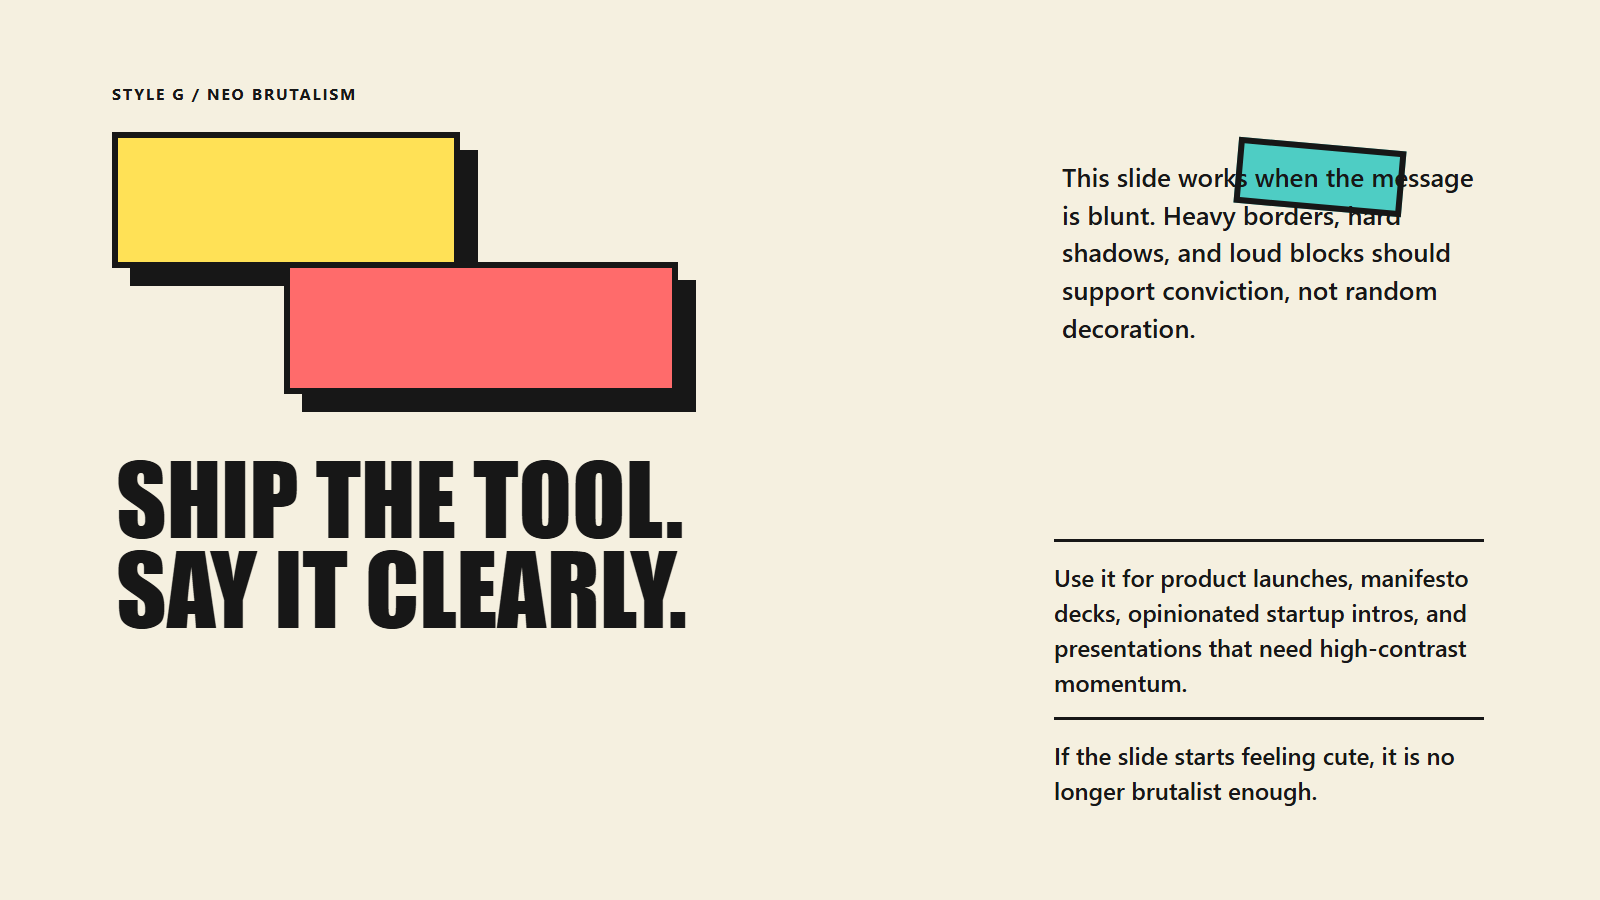
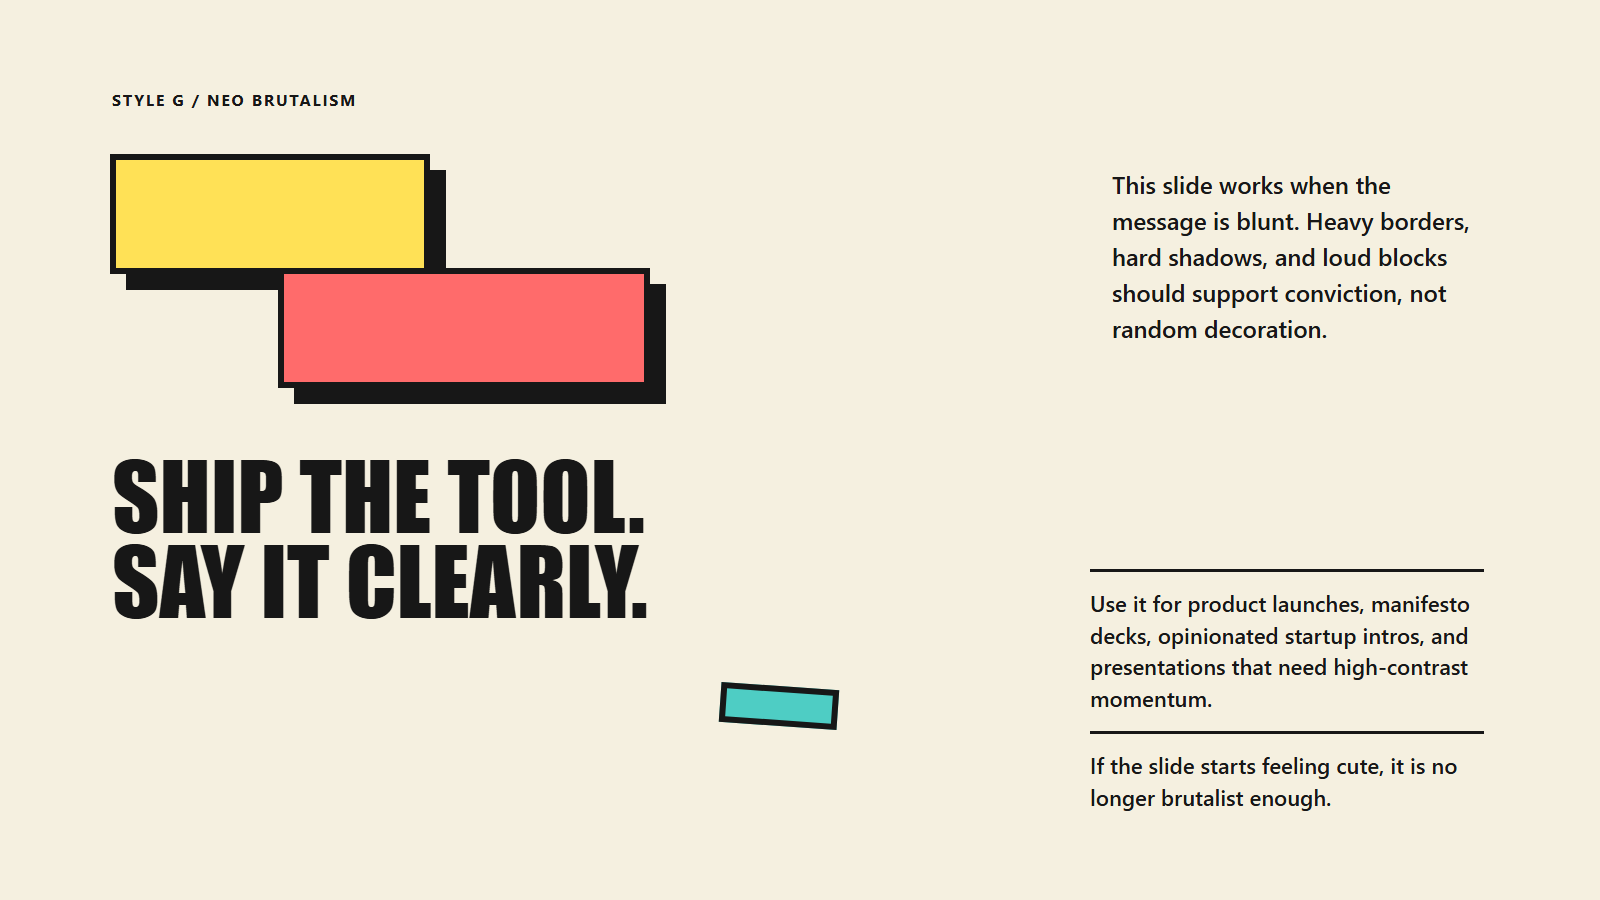
Polish README previews and presentation standards

diff --git a/README.zh.md b/README.zh.md
@@ -69,15 +69,17 @@ npx skills add https://github.com/Phlegonlabs/Powerpoint-fancy-design --skill pp
 - 渲染与 PPT 导出脚本
 - 可直接套用的 Markdown deck 模板
 
-## GitHub About 文案
+## 演示设计标准
 
-Description：
+这个 skill 对外呈现出来的状态，应该像一套专业的 PowerPoint 设计系统，而不是一组松散的素材。
 
-`A Codex skill for turning page-by-page Markdown into styled 1600x900 HTML slides, PNG previews, and exportable PPTX decks.`
+这意味着：
 
-建议 topics：
-
-`codex-skill`, `ppt`, `powerpoint`, `presentation-design`, `markdown-to-slides`, `html-slides`, `pptx`, `slide-generator`
+- 字体和图形不能抢同一个阅读焦点
+- 深色块和高饱和图形不能直接撞进正文阅读区，除非留白和对比是经过控制的
+- 装饰元素必须服务层级，而不是破坏层级
+- 每一张 preview 和每一页 slide 都应该像真的可以拿去做客户提案、产品汇报或正式演示
+- 就算 style 很大胆，阅读顺序和版式节奏也必须保持干净
 
 ## 它能做什么
 

diff --git a/README.md b/README.md
@@ -66,15 +66,17 @@ What users get after installing:
 - bundled render and PPT export scripts
 - a reusable Markdown deck template
 
-## GitHub About Copy
+## Presentation Design Standard
 
-Description:
+This skill should present itself like a professional presentation design system, not a loose asset pack.
 
-`A Codex skill for turning page-by-page Markdown into styled 1600x900 HTML slides, PNG previews, and exportable PPTX decks.`
+That means:
 
-Suggested topics:
-
-`codex-skill`, `ppt`, `powerpoint`, `presentation-design`, `markdown-to-slides`, `html-slides`, `pptx`, `slide-generator`
+- typography and shapes should not compete for the same focal area
+- dark or saturated blocks should not crash into reading zones unless the contrast and padding are intentional
+- decorative devices must support hierarchy instead of interrupting it
+- every preview and generated slide should feel usable in a real executive, product, or client-facing deck
+- expressive styles can stay bold, but they still need clean reading order and disciplined spacing
 
 ## What It Does
 

diff --git a/SKILL.md b/SKILL.md
@@ -222,3 +222,4 @@ The PPT export is intentionally image-based for fidelity. Each slide becomes one
 - Text-heavy and table-like content has been reformatted into stronger slide hierarchy where appropriate.
 - A second-pass HTML review happened after generation, not only before.
 - PPT pages preserve the HTML composition without cropping or scaling errors.
+- Decorative blocks, especially dark or saturated ones, do not invade the primary reading zones unless that overlap is deliberate, padded, and presentation-safe.

diff --git a/skills/ppt-design/SKILL.md b/skills/ppt-design/SKILL.md
@@ -222,3 +222,4 @@ The PPT export is intentionally image-based for fidelity. Each slide becomes one
 - Text-heavy and table-like content has been reformatted into stronger slide hierarchy where appropriate.
 - A second-pass HTML review happened after generation, not only before.
 - PPT pages preserve the HTML composition without cropping or scaling errors.
+- Decorative blocks, especially dark or saturated ones, do not invade the primary reading zones unless that overlap is deliberate, padded, and presentation-safe.
